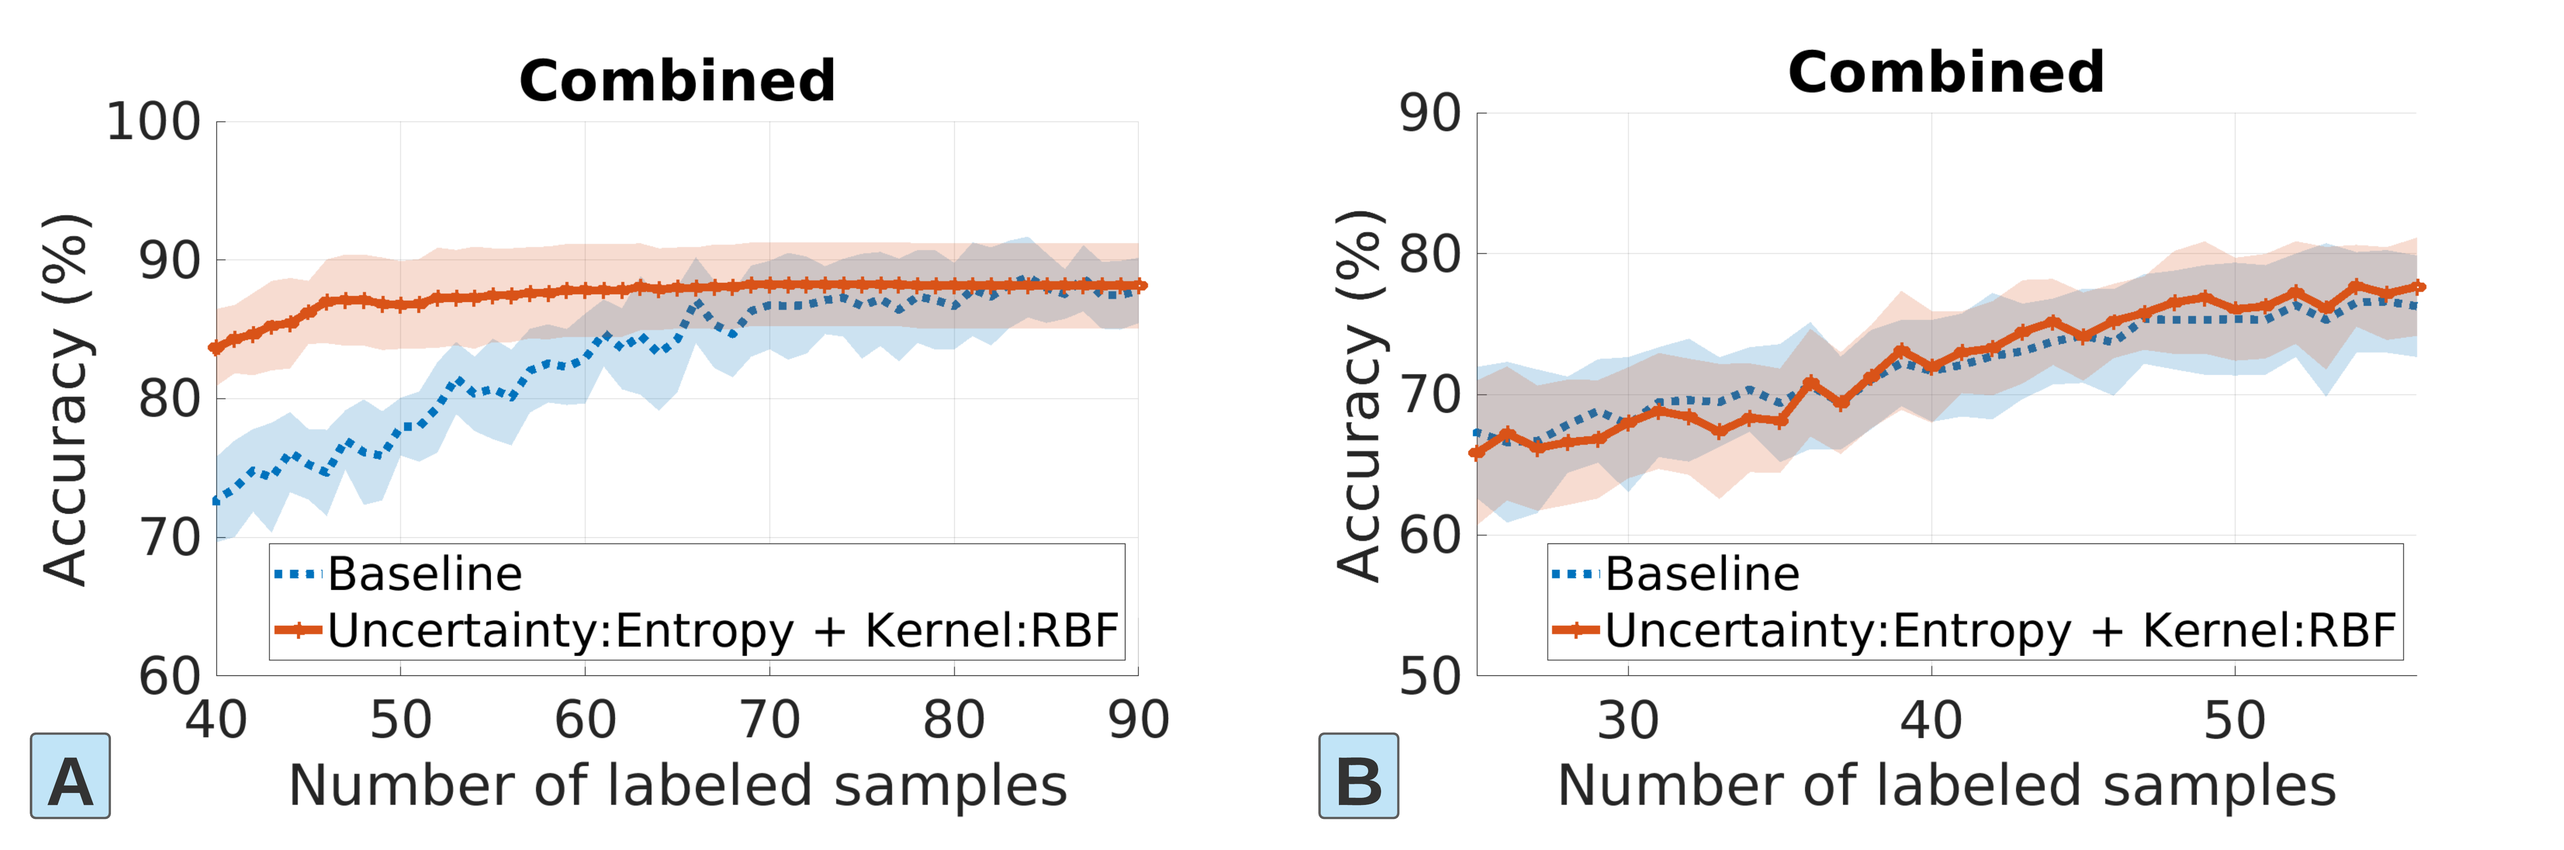
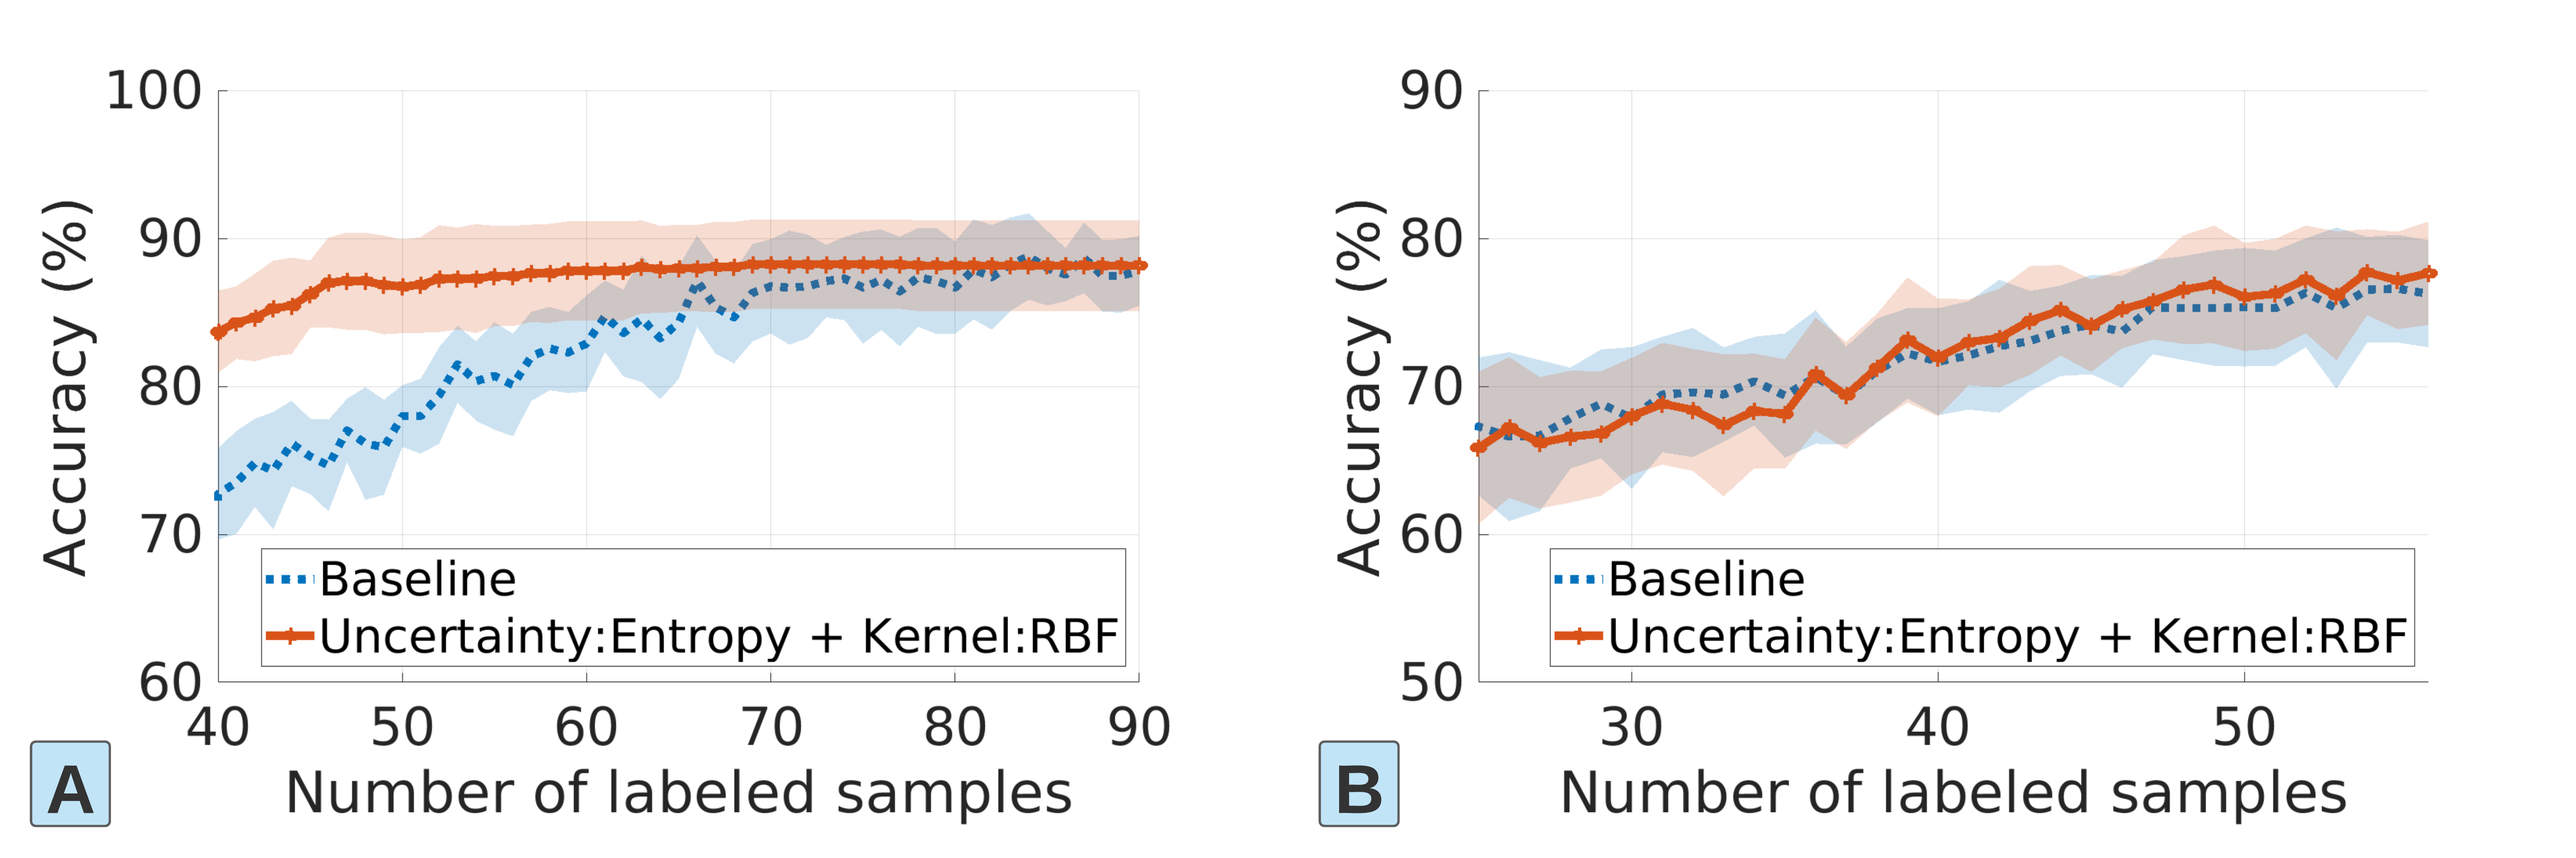
paper ready?

diff --git a/Matlab/combine_eem.m b/Matlab/combine_eem.m
@@ -58,7 +58,7 @@ xlabel('Number of labeled samples')
 ylabel('Accuracy (%)')
 xticks(10:10:90)
 yticks(20:10:100)
-title('Combined')
+% title('Combined')
 hold off
 
 saveas(gcf, './Image/combine_eem.png')

diff --git a/Matlab/combine.m b/Matlab/combine.m
@@ -58,7 +58,7 @@ xlabel('Number of labeled samples')
 ylabel('Accuracy (%)')
 xticks(10:10:90)
 yticks(20:10:100)
-title('Combined')
+% title('Combined')
 hold off
 
 saveas(gcf, './Image/combine.png')
